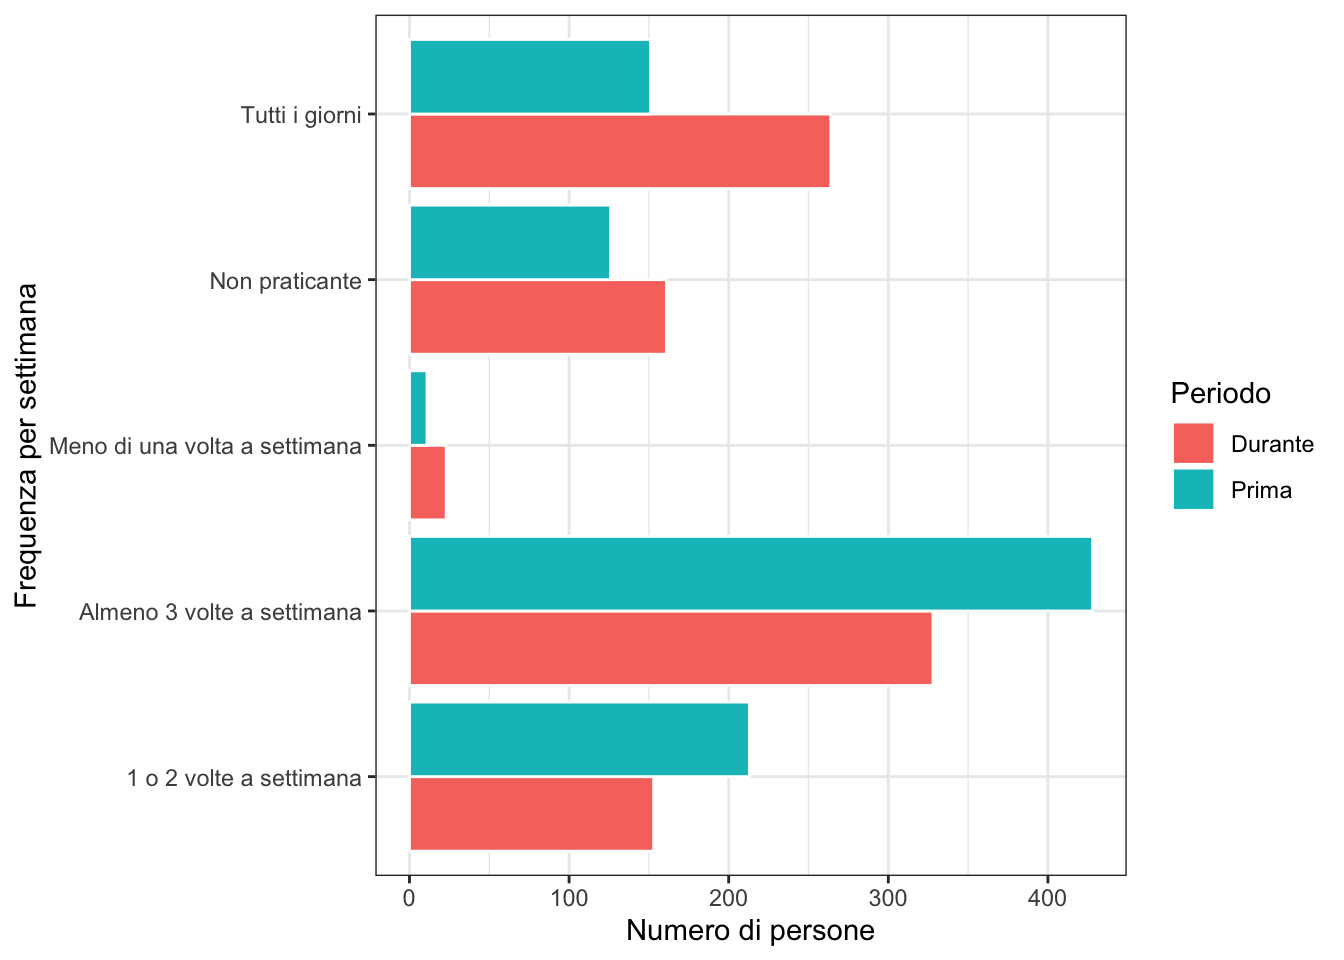
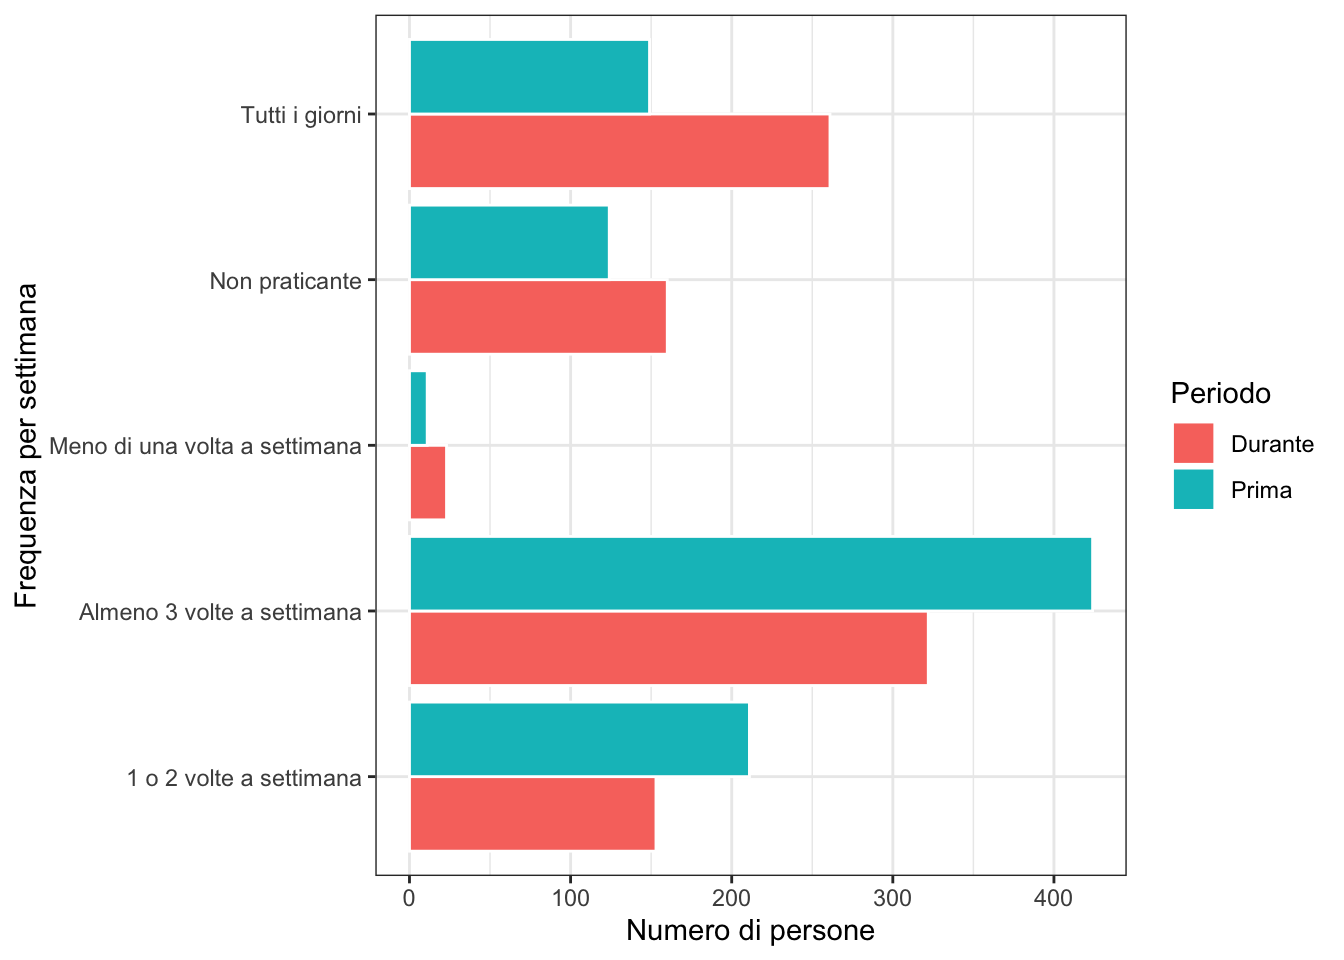
Build site.

diff --git a/docs/3.0-effetto-su-attivita-fisica.html b/docs/3.0-effetto-su-attivita-fisica.html
@@ -409,7 +409,7 @@ div.tocify {
 <div class="tab-content">
 <div id="summary" class="tab-pane fade in active">
 <p>
-<strong>Last updated:</strong> 2020-06-02
+<strong>Last updated:</strong> 2020-06-16
 </p>
 <p>
 <strong>Checks:</strong> <span class="glyphicon glyphicon-ok text-success" aria-hidden="true"></span> 7 <span class="glyphicon glyphicon-exclamation-sign text-danger" aria-hidden="true"></span> 0
@@ -500,16 +500,16 @@ This reproducible <a href="http://rmarkdown.rstudio.com">R Markdown</a> analysis
 <div class="panel panel-default">
 <div class="panel-heading">
 <p class="panel-title">
-<a data-toggle="collapse" data-parent="#workflowr-checks" href="#strongRepositoryversionstrongahrefhttpsgithubcomannaquaglieri16tesimagistraleluciatree6c546f8b36393356c89d8bbe465440a8cde63515targetblank6c546f8a"> <span class="glyphicon glyphicon-ok text-success" aria-hidden="true"></span> <strong>Repository version:</strong> <a href="https://github.com/annaquaglieri16/tesi-magistrale-lucia/tree/6c546f8b36393356c89d8bbe465440a8cde63515" target="_blank">6c546f8</a> </a>
+<a data-toggle="collapse" data-parent="#workflowr-checks" href="#strongRepositoryversionstrongahrefhttpsgithubcomannaquaglieri16tesimagistraleluciatreee91132fc3c053c851fb119984a7d7905412a1cf8targetblanke91132fa"> <span class="glyphicon glyphicon-ok text-success" aria-hidden="true"></span> <strong>Repository version:</strong> <a href="https://github.com/annaquaglieri16/tesi-magistrale-lucia/tree/e91132fc3c053c851fb119984a7d7905412a1cf8" target="_blank">e91132f</a> </a>
 </p>
 </div>
[2 lines of base64/hex data omitted]
 <div class="panel-body">
 <p>
 Great! You are using Git for version control. Tracking code development and connecting the code version to the results is critical for reproducibility.
 </p>
 <p>
-The results in this page were generated with repository version <a href="https://github.com/annaquaglieri16/tesi-magistrale-lucia/tree/6c546f8b36393356c89d8bbe465440a8cde63515" target="_blank">6c546f8</a>. See the <em>Past versions</em> tab to see a history of the changes made to the R Markdown and HTML files.
+The results in this page were generated with repository version <a href="https://github.com/annaquaglieri16/tesi-magistrale-lucia/tree/e91132fc3c053c851fb119984a7d7905412a1cf8" target="_blank">e91132f</a>. See the <em>Past versions</em> tab to see a history of the changes made to the R Markdown and HTML files.
 </p>
 <p>
 Note that you need to be careful to ensure that all relevant files for the analysis have been committed to Git prior to generating the results (you can use <code>wflow_publish</code> or <code>wflow_git_commit</code>). workflowr only checks the R Markdown file, but you know if there are other scripts or data files that it depends on. Below is the status of the Git repository when the results were generated:
@@ -520,6 +520,7 @@ Ignored files:
     Ignored:    .Rhistory
     Ignored:    .Rproj.user/
     Ignored:    data/dati_da_controllare/
+    Ignored:    data/dati_da_controllare_cambiati/
 
 </code></pre>
 <p>
@@ -558,6 +559,40 @@ Message
 </tr>
 </thead>
 <tbody>
+<tr>
+<td>
+Rmd
+</td>
+<td>
+<a href="https://github.com/annaquaglieri16/tesi-magistrale-lucia/blob/e91132fc3c053c851fb119984a7d7905412a1cf8/analysis/3.0-effetto-su-attivita-fisica.Rmd" target="_blank">e91132f</a>
+</td>
+<td>
+Anna Quaglieri
+</td>
+<td>
+2020-06-16
+</td>
+<td>
+wflow_publish(c(“analysis/2.0-demografia-del-campione.Rmd”, “analysis/3.0-effetto-su-attivita-fisica.Rmd”))
+</td>
+</tr>
+<tr>
+<td>
+html
+</td>
+<td>
+<a href="https://rawcdn.githack.com/annaquaglieri16/tesi-magistrale-lucia/58d9cf2c5d5170229bae27a075bc818f3a1b9cb6/docs/3.0-effetto-su-attivita-fisica.html" target="_blank">58d9cf2</a>
+</td>
+<td>
+Anna Quaglieri
+</td>
+<td>
+2020-06-02
+</td>
+<td>
+Build site.
+</td>
+</tr>
 <tr>
 <td>
 Rmd
@@ -792,38 +827,38 @@ Anna Quaglieri
 <tr class="even">
 <td align="left">Si</td>
 <td align="left">No</td>
-<td align="right">110</td>
+<td align="right">109</td>
 </tr>
 <tr class="odd">
 <td align="left">No</td>
 <td align="left">Si</td>
-<td align="right">75</td>
+<td align="right">73</td>
 </tr>
 <tr class="even">
 <td align="left">Si</td>
 <td align="left">Si</td>
-<td align="right">693</td>
+<td align="right">686</td>
 </tr>
 </tbody>
 </table>
 <pre><code>$data
        
         No change Change Total
-  Si          693    110   803
-  No           51     75   126
-  Total       744    185   929
+  Si          686    109   795
+  No           51     73   124
+  Total       737    182   919
 
 $measure
     risk ratio with 95% C.I.
      estimate    lower    upper
-  Si 1.000000       NA       NA
-  No 4.345238 3.467856 5.444602
+  Si   1.0000       NA       NA
+  No   4.2938 3.417874 5.394206
 
 $p.value
     two-sided
      midp.exact fisher.exact   chi.square
   Si         NA           NA           NA
-  No          0  6.77159e-27 4.792854e-33
+  No          0 7.011616e-26 8.282568e-32
 
 $correction
 [1] FALSE
@@ -842,14 +877,14 @@ attr(,&quot;method&quot;)
     2-sample test for equality of proportions with continuity correction
 
 data:  yes out of numero_persone
-X-squared = 4.7637, df = 1, p-value = 0.02907
+X-squared = 4.8179, df = 1, p-value = 0.02817
 alternative hypothesis: two.sided
 95 percent confidence interval:
- 0.003777797 0.071572042
+ 0.004079869 0.073422822
 sample estimates:
    prop 1    prop 2 
-0.8643703 0.8266954 </code></pre>
-<p>Nel complesso, la proporzione delle persone che pratica attivita’ fisica diminuisce marginalmente, passando dall’0.86% al 0.83%.</p>
+0.8557589 0.8170075 </code></pre>
+<p>Nel complesso, la proporzione delle persone che pratica attivita’ fisica diminuisce marginalmente, passando dall’0.86% al 0.82%.</p>
 </div>
 </div>
 <div id="motivazioni-che-hanno-portato-a-un-cambiamento-dellattitudine-a-praticare-attivita-fisica." class="section level1">
@@ -930,18 +965,18 @@ sample estimates:
 </tr>
 <tr class="odd">
 <td align="left">Mancanza di voglia</td>
-<td align="right">65</td>
+<td align="right">64</td>
 </tr>
 </tbody>
 </table>
 <pre><code>
  Al chiuso All&#39;aperto 
-  0.494396   0.505604 </code></pre>
+ 0.4955975  0.5044025 </code></pre>
 <pre><code>
       1 o 2 volte a settimana    Almeno 3 volte a settimana 
-                   0.26525529                    0.53300125 
+                   0.26540881                    0.53333333 
 Meno di una volta a settimana                Tutti i giorni 
-                   0.01369863                    0.18804483 </code></pre>
+                   0.01383648                    0.18742138 </code></pre>
 <ul>
 <li>Che differenze ci sono tra le persone che hanno smesso di fare attivita’ rispetto a quelle che hanno continuato?</li>
 <li>Quali erano le motivazioni a praticare attivita’ di queste persone rispetto a quelli che non hanno smesso di praticare? (Eta’?)</li>
@@ -964,11 +999,11 @@ Meno di una volta a settimana                Tutti i giorni
 </tr>
 <tr class="even">
 <td align="left">Mancanza di voglia</td>
-<td align="right">32</td>
+<td align="right">31</td>
 </tr>
 <tr class="odd">
 <td align="left">Mancanza di tempo</td>
-<td align="right">38</td>
+<td align="right">37</td>
 </tr>
 </tbody>
 </table>
@@ -1055,11 +1090,11 @@ Meno di una volta a settimana                Tutti i giorni
 </tr>
 <tr class="odd">
 <td align="left">Voglio perdere peso;Voglio rimanere in forma e in salute</td>
-<td align="right">5</td>
+<td align="right">4</td>
 </tr>
 <tr class="even">
 <td align="left">Voglio perdere peso</td>
-<td align="right">12</td>
+<td align="right">11</td>
 </tr>
 <tr class="odd">
 <td align="left">Voglio rimanere in forma e in salute</td>

diff --git a/docs/2.0-demografia-del-campione.html b/docs/2.0-demografia-del-campione.html
@@ -500,16 +500,16 @@ This reproducible <a href="http://rmarkdown.rstudio.com">R Markdown</a> analysis
 <div class="panel panel-default">
 <div class="panel-heading">
 <p class="panel-title">
-<a data-toggle="collapse" data-parent="#workflowr-checks" href="#strongRepositoryversionstrongahrefhttpsgithubcomannaquaglieri16tesimagistraleluciatree91283abf8cb71fb786f9cb871f2fe1697f1fc0d3targetblank91283aba"> <span class="glyphicon glyphicon-ok text-success" aria-hidden="true"></span> <strong>Repository version:</strong> <a href="https://github.com/annaquaglieri16/tesi-magistrale-lucia/tree/91283abf8cb71fb786f9cb871f2fe1697f1fc0d3" target="_blank">91283ab</a> </a>
+<a data-toggle="collapse" data-parent="#workflowr-checks" href="#strongRepositoryversionstrongahrefhttpsgithubcomannaquaglieri16tesimagistraleluciatreee91132fc3c053c851fb119984a7d7905412a1cf8targetblanke91132fa"> <span class="glyphicon glyphicon-ok text-success" aria-hidden="true"></span> <strong>Repository version:</strong> <a href="https://github.com/annaquaglieri16/tesi-magistrale-lucia/tree/e91132fc3c053c851fb119984a7d7905412a1cf8" target="_blank">e91132f</a> </a>
 </p>
 </div>
[2 lines of base64/hex data omitted]
 <div class="panel-body">
 <p>
 Great! You are using Git for version control. Tracking code development and connecting the code version to the results is critical for reproducibility.
 </p>
 <p>
-The results in this page were generated with repository version <a href="https://github.com/annaquaglieri16/tesi-magistrale-lucia/tree/91283abf8cb71fb786f9cb871f2fe1697f1fc0d3" target="_blank">91283ab</a>. See the <em>Past versions</em> tab to see a history of the changes made to the R Markdown and HTML files.
+The results in this page were generated with repository version <a href="https://github.com/annaquaglieri16/tesi-magistrale-lucia/tree/e91132fc3c053c851fb119984a7d7905412a1cf8" target="_blank">e91132f</a>. See the <em>Past versions</em> tab to see a history of the changes made to the R Markdown and HTML files.
 </p>
 <p>
 Note that you need to be careful to ensure that all relevant files for the analysis have been committed to Git prior to generating the results (you can use <code>wflow_publish</code> or <code>wflow_git_commit</code>). workflowr only checks the R Markdown file, but you know if there are other scripts or data files that it depends on. Below is the status of the Git repository when the results were generated:
@@ -559,6 +559,40 @@ Message
 </tr>
 </thead>
 <tbody>
+<tr>
+<td>
+Rmd
+</td>
+<td>
+<a href="https://github.com/annaquaglieri16/tesi-magistrale-lucia/blob/e91132fc3c053c851fb119984a7d7905412a1cf8/analysis/2.0-demografia-del-campione.Rmd" target="_blank">e91132f</a>
+</td>
+<td>
+Anna Quaglieri
+</td>
+<td>
+2020-06-16
+</td>
+<td>
+wflow_publish(c(“analysis/2.0-demografia-del-campione.Rmd”, “analysis/3.0-effetto-su-attivita-fisica.Rmd”))
+</td>
+</tr>
+<tr>
+<td>
+html
+</td>
+<td>
+<a href="https://rawcdn.githack.com/annaquaglieri16/tesi-magistrale-lucia/5b40b01aeda9e08b8ace3761c26069ae700741c0/docs/2.0-demografia-del-campione.html" target="_blank">5b40b01</a>
+</td>
+<td>
+Anna Quaglieri
+</td>
+<td>
+2020-06-16
+</td>
+<td>
+Build site.
+</td>
+</tr>
 <tr>
 <td>
 Rmd
@@ -1254,6 +1288,10 @@ Anna Quaglieri
 </tr>
 </tbody>
 </table>
+</div>
+</div>
+<div id="salva-dati" class="section level1">
+<h1>Salva dati</h1>
 <br>
 <p>
 <button type="button" class="btn btn-default btn-workflowr btn-workflowr-sessioninfo" data-toggle="collapse" data-target="#workflowr-sessioninfo" style="display: block;">
@@ -1262,7 +1300,6 @@ Anna Quaglieri
 </p>
 <div id="workflowr-sessioninfo" class="collapse">
 
-</div>
 </div>
 </div>
 
